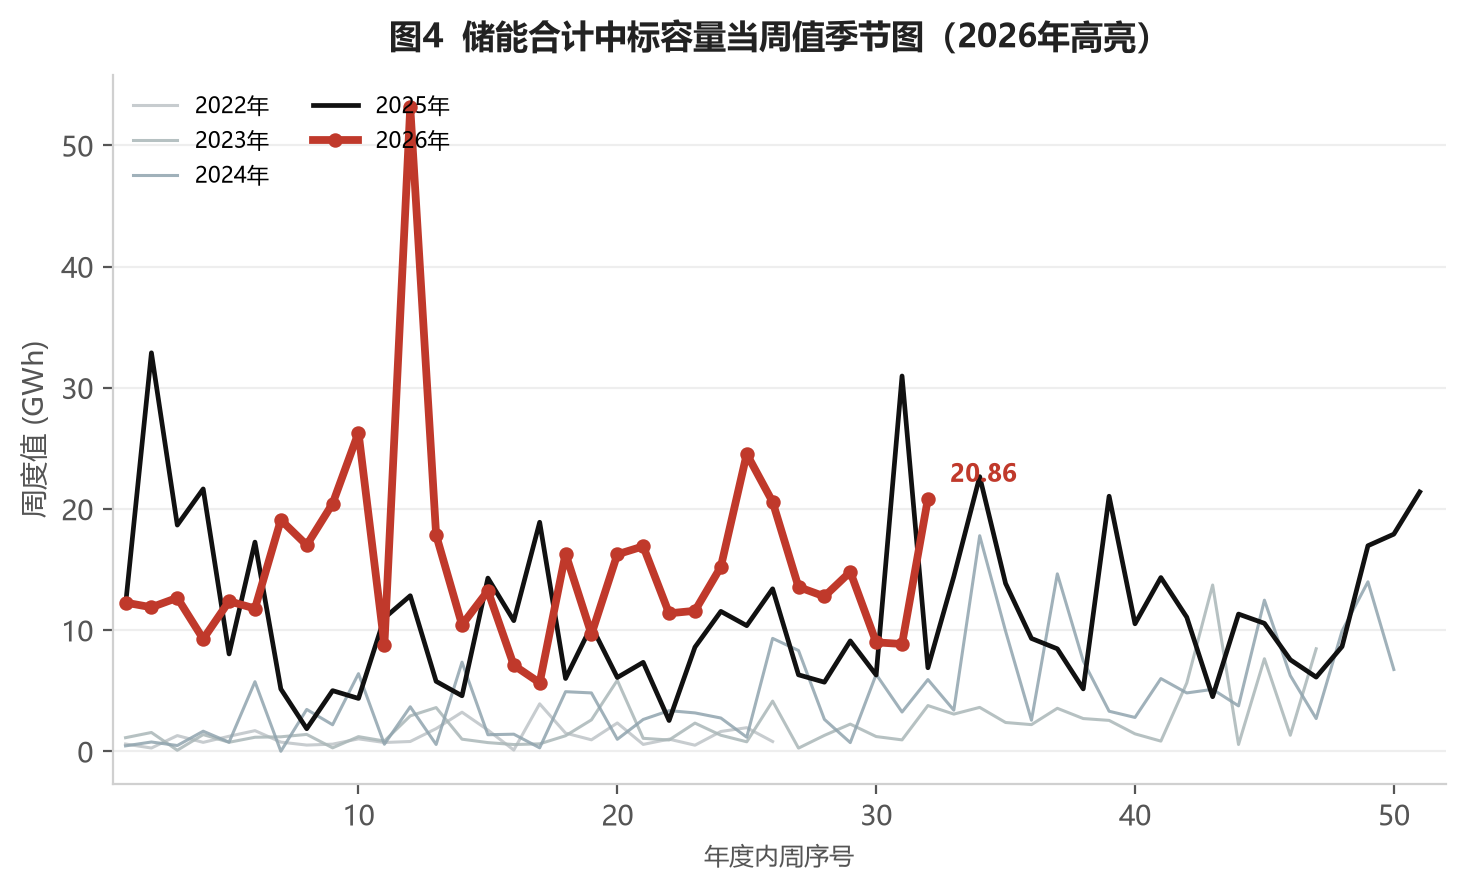
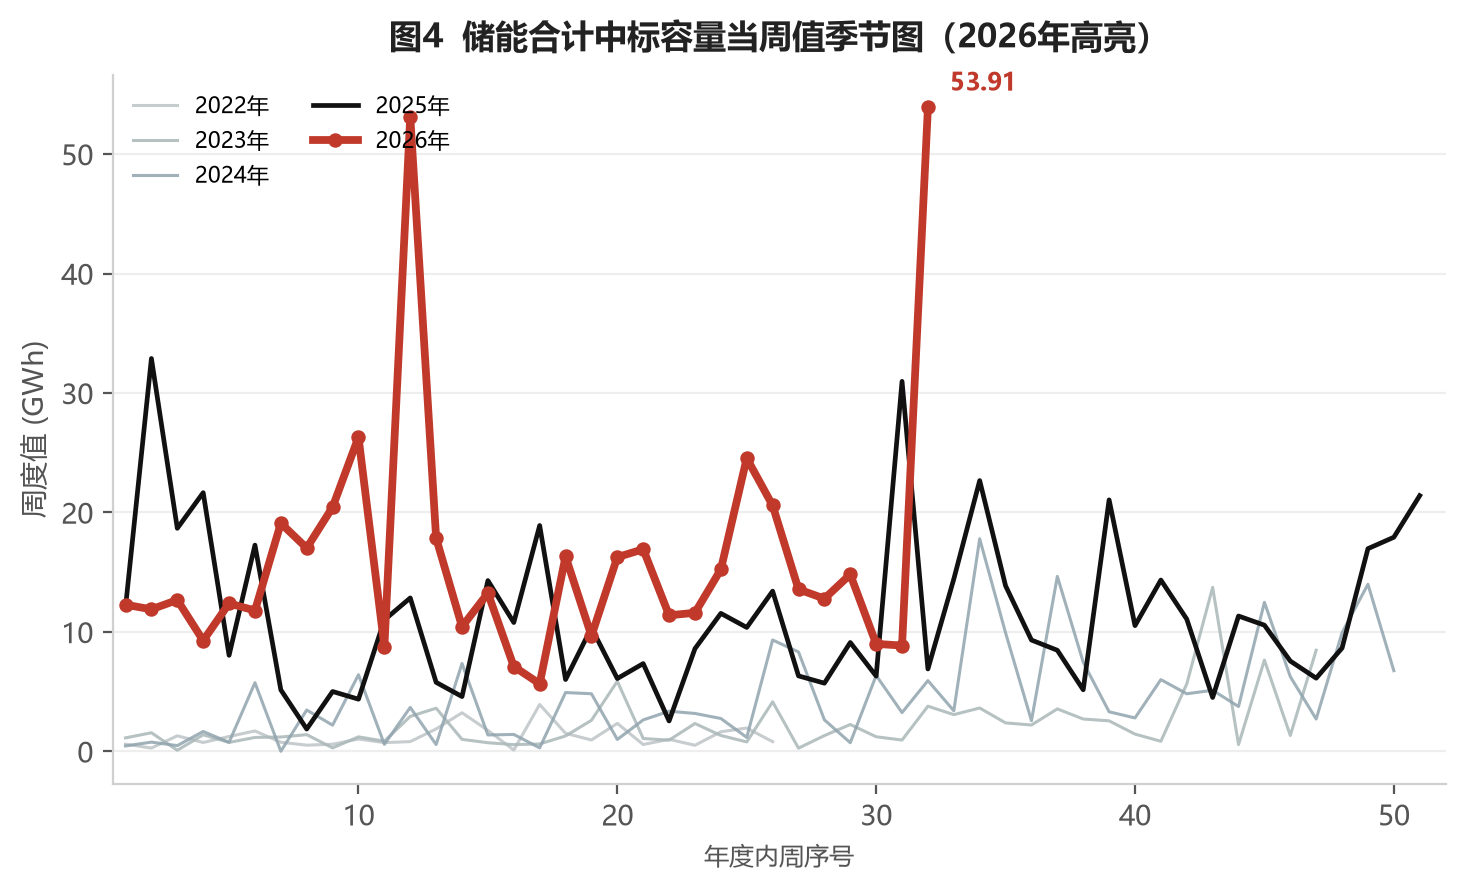
update weekly report 2026-08-16

diff --git a/docs/index.html b/docs/index.html
@@ -52,13 +52,13 @@ footer{text-align:center;color:var(--muted);font-size:12px;padding:26px 0;
 <header class="hero">
   <div class="container">
     <h1>储能行业周报 · 储能招中标板块</h1>
-    <div class="meta">数据周期：2022-07-01 ~ 2026-08-14 · 本周：2026-08-08 至 2026-08-14（2026年第32周）· 共 206 周数据 · 生成于 2026-08-16 19:22:25</div>
+    <div class="meta">数据周期：2022-07-01 ~ 2026-08-14 · 本周：2026-08-08 至 2026-08-14（2026年第32周）· 共 206 周数据 · 生成于 2026-08-16 20:21:24</div>
   </div>
 </header>
 <div class="container">
     <section class="sec">
       <h2>一、中国|储能周度招中标</h2>
-      <div class="desc"><p class="d">本周：2026-08-08 至 2026-08-14</p><p class="d">招标项目 <b>43</b> 个，规模合计 <b>7.74</b>GW/<b>25.30</b>GWh，环比 <span class="chg up">+107.3%</span>/<span class="chg up">+130.9%</span>，同比 <span class="chg up">+174.0%</span>/<span class="chg up">+245.2%</span>。</p><p class="d">中标项目 <b>50</b> 个，规模合计 <b>7.98</b>GW/<b>20.86</b>GWh，环比 <span class="chg up">+150.3%</span>/<span class="chg up">+135.5%</span>，同比 <span class="chg up">+198.6%</span>/<span class="chg up">+202.3%</span>。</p></div>
+      <div class="desc"><p class="d">本周：2026-08-08 至 2026-08-14</p><p class="d">招标项目 <b>43</b> 个，规模合计 <b>7.74</b>GW/<b>25.30</b>GWh，环比 <span class="chg up">+107.3%</span>/<span class="chg up">+130.9%</span>，同比 <span class="chg up">+174.0%</span>/<span class="chg up">+245.2%</span>。</p><p class="d">中标项目 <b>50</b> 个，规模合计 <b>7.98</b>GW/<b>53.91</b>GWh，环比 <span class="chg up">+150.3%</span>/<span class="chg up">+508.6%</span>，同比 <span class="chg up">+198.6%</span>/<span class="chg up">+681.3%</span>。</p></div>
       <div class="charts">
       <figure class="fig"><img src="assets/images/fig_01.png" alt="图1：储能合计招标功率当周值季节图" loading="lazy" /></figure>
       <figure class="fig"><img src="assets/images/fig_02.png" alt="图2：储能合计中标功率当周值季节图" loading="lazy" /></figure>
@@ -69,7 +69,7 @@ footer{text-align:center;color:var(--muted);font-size:12px;padding:26px 0;
 
     <section class="sec">
       <h2>二、中国|储能周度招中标（累计）</h2>
-      <div class="desc"><p class="d">截至 2026-08-14</p><p class="d">招标累计规模 <b>121.53</b>GW/<b>412.54</b>GWh，环比 <span class="chg up">+6.8%</span>/<span class="chg up">+6.5%</span>，同比 <span class="chg up">+99.6%</span>/<span class="chg up">+109.7%</span>。</p><p class="d">中标累计规模 <b>131.57</b>GW/<b>491.79</b>GWh，环比 <span class="chg up">+6.5%</span>/<span class="chg up">+4.4%</span>，同比 <span class="chg up">+40.3%</span>/<span class="chg up">+41.8%</span>。</p></div>
+      <div class="desc"><p class="d">截至 2026-08-14</p><p class="d">招标累计规模 <b>121.53</b>GW/<b>412.54</b>GWh，环比 <span class="chg up">+6.8%</span>/<span class="chg up">+6.5%</span>，同比 <span class="chg up">+99.6%</span>/<span class="chg up">+109.7%</span>。</p><p class="d">中标累计规模 <b>131.57</b>GW/<b>524.84</b>GWh，环比 <span class="chg up">+6.5%</span>/<span class="chg up">+11.4%</span>，同比 <span class="chg up">+40.3%</span>/<span class="chg up">+51.3%</span>。</p></div>
       <div class="charts">
       <figure class="fig"><img src="assets/images/fig_05.png" alt="图5：储能合计招标功率YTD值季节图" loading="lazy" /></figure>
       <figure class="fig"><img src="assets/images/fig_06.png" alt="图6：储能合计中标功率YTD值季节图" loading="lazy" /></figure>
@@ -95,7 +95,7 @@ footer{text-align:center;color:var(--muted);font-size:12px;padding:26px 0;
 
     <section class="sec">
       <h2>四、储能系统招中标规模（周度）</h2>
-      <div class="desc"><p class="d">本周：2026-08-08 至 2026-08-14</p><p class="d">储能系统<b>招标</b>：<b>1.45</b>GW/<b>5.58</b>GWh，环比 <span class="chg up">+1033.3%</span>/<span class="chg up">+1091.4%</span>，同比 <span class="chg up">+102.7%</span>/<span class="chg up">+127.8%</span>；本年累计<b>招标</b> <b>17.59</b>GW/<b>106.41</b>GWh，同比 <span class="chg up">+15.7%</span>/<span class="chg up">+72.7%</span>。</p><p class="d">储能系统<b>中标</b>：<b>1.76</b>GW/<b>3.67</b>GWh，环比 <span class="chg up">+468.5%</span>/<span class="chg up">+182.2%</span>，同比 <span class="chg up">+147.2%</span>/<span class="chg up">+96.0%</span>；本年累计<b>中标</b> <b>21.93</b>GW/<b>138.14</b>GWh，同比 <span class="chg down">-37.2%</span>/<span class="chg down">-31.5%</span>。</p></div>
+      <div class="desc"><p class="d">本周：2026-08-08 至 2026-08-14</p><p class="d">储能系统<b>招标</b>：<b>1.45</b>GW/<b>5.58</b>GWh，环比 <span class="chg up">+1033.3%</span>/<span class="chg up">+1091.4%</span>，同比 <span class="chg up">+102.7%</span>/<span class="chg up">+127.8%</span>；本年累计<b>招标</b> <b>17.59</b>GW/<b>106.41</b>GWh，同比 <span class="chg up">+15.7%</span>/<span class="chg up">+72.7%</span>。</p><p class="d">储能系统<b>中标</b>：<b>1.76</b>GW/<b>36.73</b>GWh，环比 <span class="chg up">+468.5%</span>/<span class="chg up">+2721.7%</span>，同比 <span class="chg up">+147.2%</span>/<span class="chg up">+1860.2%</span>；本年累计<b>中标</b> <b>21.93</b>GW/<b>171.20</b>GWh，同比 <span class="chg down">-37.2%</span>/<span class="chg down">-15.1%</span>。</p></div>
       <div class="charts cols4">
       <figure class="fig"><img src="assets/images/fig_17.png" alt="图17：储能系统招标功率当周值季节图" loading="lazy" /></figure>
       <figure class="fig"><img src="assets/images/fig_18.png" alt="图18：储能系统招标功率YTD值季节图" loading="lazy" /></figure>
